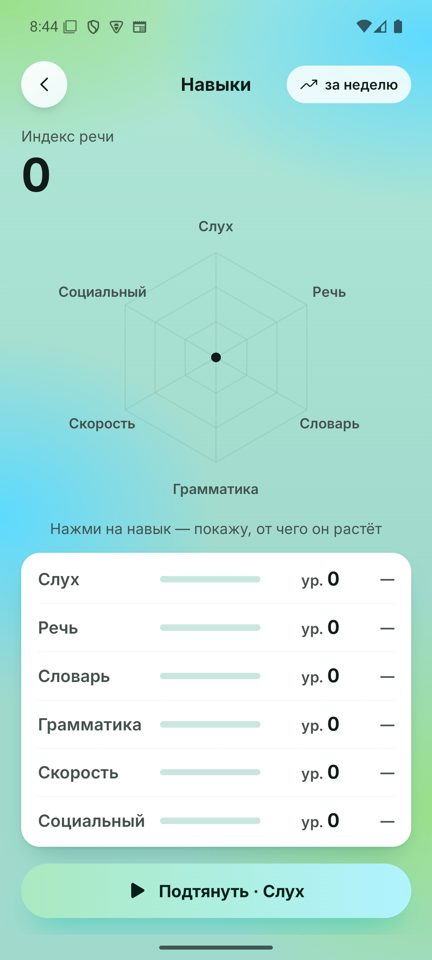
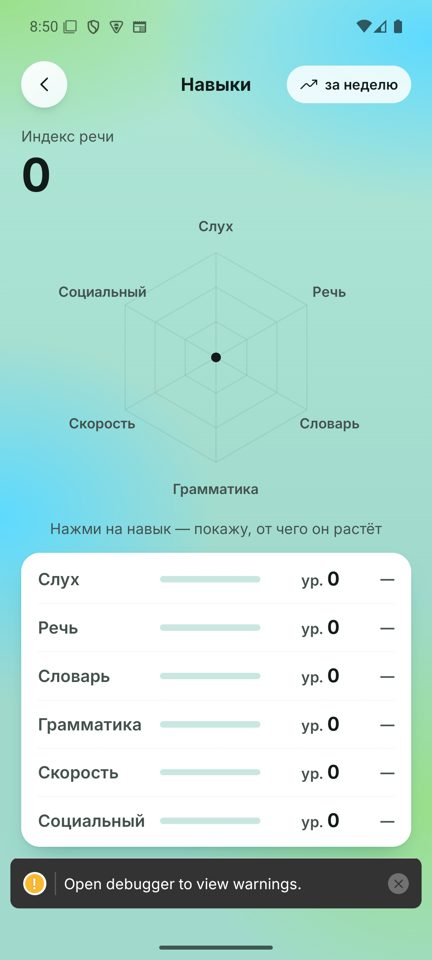
docs: сверка Elevate — экран «Навыки» переснят без кнопки «Подтянуть»

Changed region(s): [[0.0, 0.875, 0.9931, 0.9688], [0.0903, 0.0, 0.1505, 0.0312]]

diff --git a/docs/design/v2-app/elevate-parity.html b/docs/design/v2-app/elevate-parity.html
@@ -85,10 +85,10 @@
       <div class="col"><h3>Снято с приложения</h3><img src="assets/elevate-app/app_skills.jpg" alt="Экран «Навыки» в приложении"></div>
     </div>
     <ul class="diff">
-      <li><span class="tag ok">совпало</span>Шапка, «Индекс речи», звезда с шестью подписями, шесть строк с уровнем и приростом за неделю, кнопка «Подтянуть».</li>
+      <li><span class="tag ok">совпало</span>Шапка, «Индекс речи», звезда с шестью подписями, шесть строк с уровнем и приростом за неделю.</li>
       <li><span class="tag df">отличие</span>Нет пилюли «Уверенный · A2»: не задано правило, по которому выбирается подпись.</li>
       <li><span class="tag df">отличие</span>Все значения нулевые — на этом аккаунте ещё не играли; фигура звезды появится с первыми очками.</li>
-      <li><span class="tag df">отличие</span>«Подтянуть» предлагает «Слух», а не самый слабый по макету: при равных нулях берётся первый учебный навык.</li>
+      <li><span class="tag df">отличие</span><b>Кнопки «Подтянуть» нет</b>: вы велели её удалить 11.11 («вот эту кнопку удали»). В разминку ведёт строка на экране «Сегодня».</li>
     </ul>
   </section>
 
